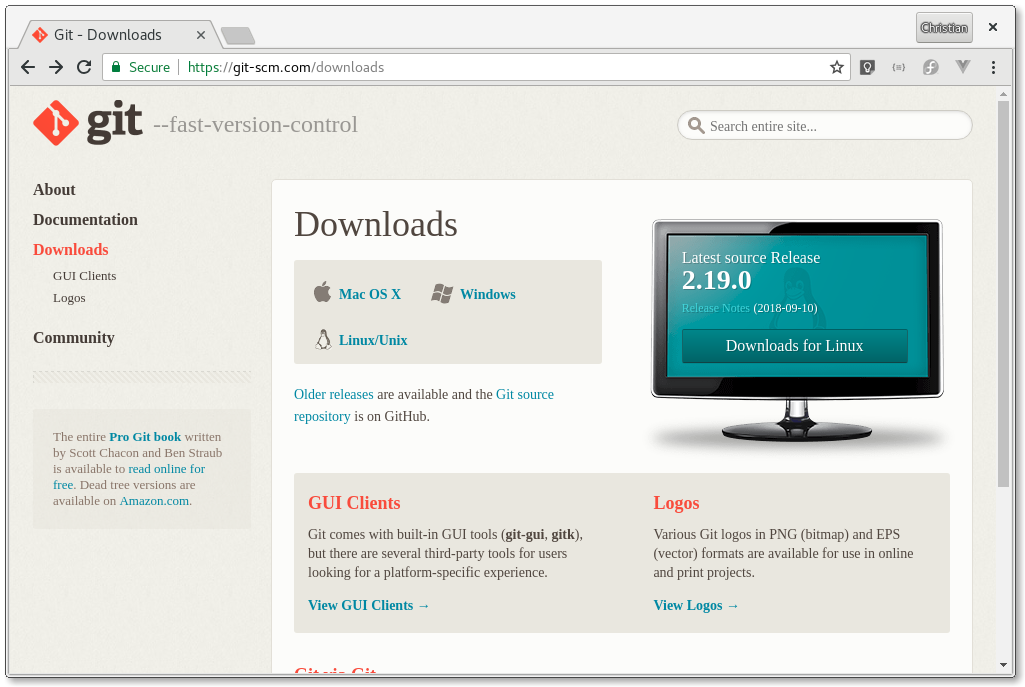
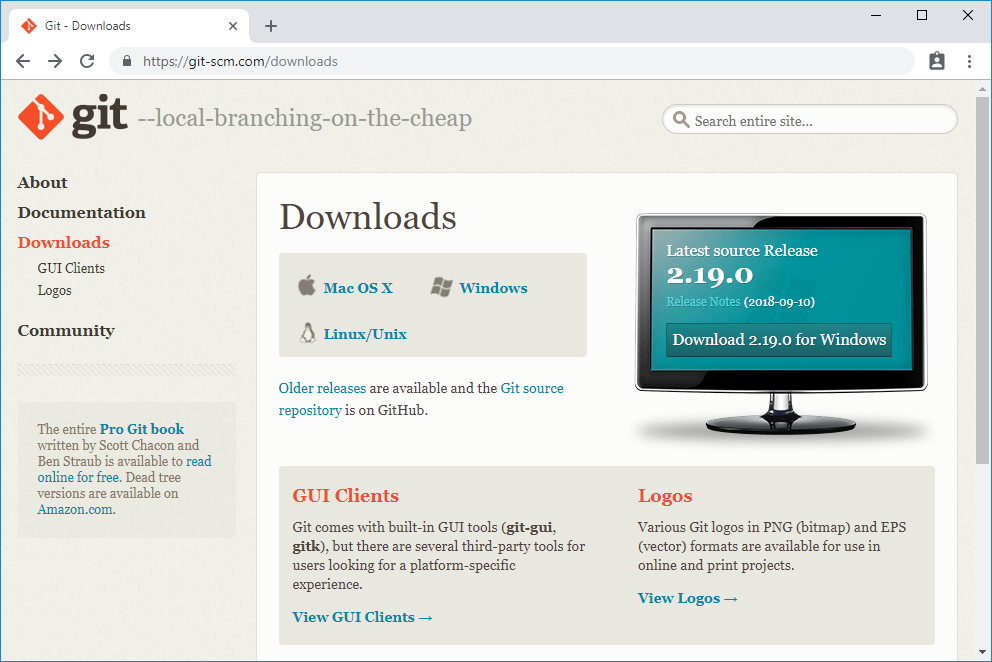
Added and updated screenshots.

diff --git a/installation_and_setup/readme.md b/installation_and_setup/readme.md
@@ -4,24 +4,19 @@
 
 To get up and running you need to install the Git client software. It is available for Windows, Linux and Mac and are found at https://git-scm.com/downloads.
 
-1. Download and execute the installer
-
-![alt](./download.png)
-
-2. Accept defaults when asked what components to install
-
-![alt](./components.png)
-
-3. To be able to use Git in the windows command prompt go with the second option (default), when asked to adjust you PATH environment.
-
-
-4. Use the OpenSSL library for HTTPS
-
-
-5. Checkout Windows-style
-
-
-6. Accept the defaults for the remaining of the installation wizard.
+1. Download and execute the installer.  
+    ![alt](./download.png)
+1. Accept defaults when asked what components to install.  
+    ![alt](./01_components.png)
+1. Leave **Nano** as the default editor.   
+    ![alt](./02_editor.png)
+1. To be able to use Git in the windows command prompt go with the second option (default), when asked to adjust you PATH environment.  
+    ![alt](./03_path.png)
+1. Use the OpenSSL library for HTTPS.  
+    ![alt](./04_https_transport.png)
+1. Checkout Windows-style.  
+    ![alt](./05_line_endings.png)
+1. Accept the defaults for the remaining of the installation wizard.
 
 ## Verify Your installation
 
